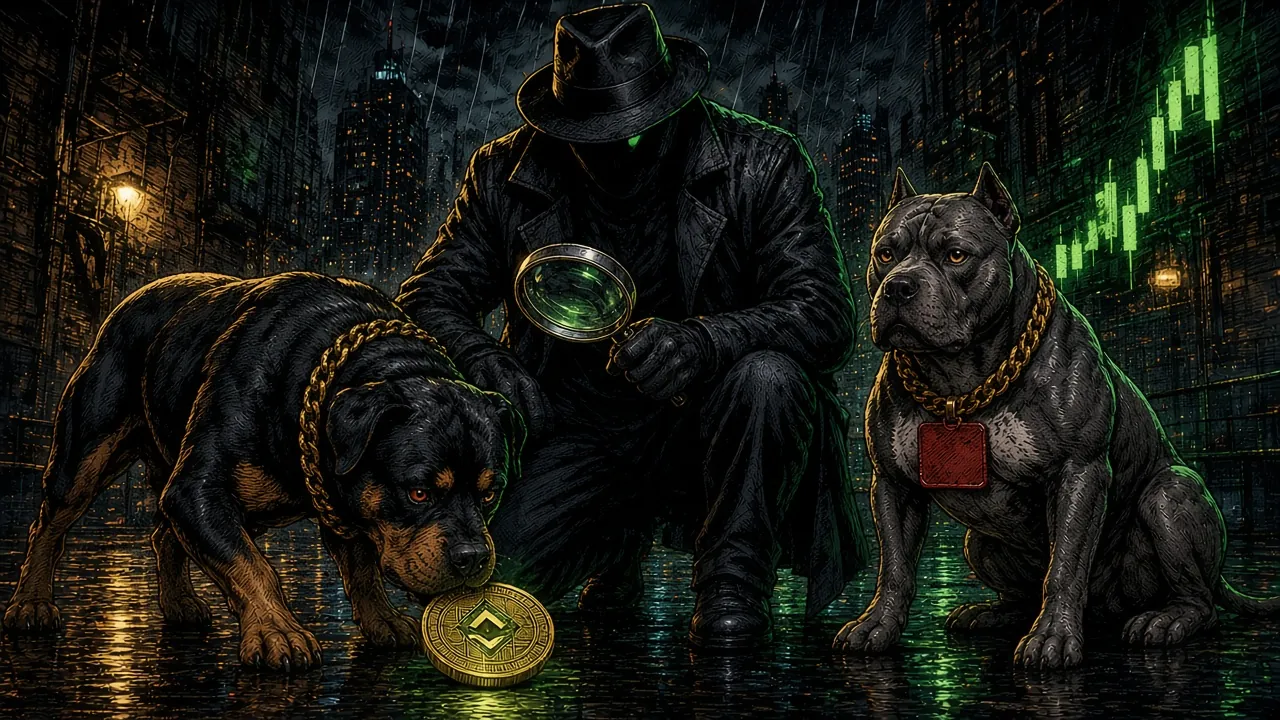
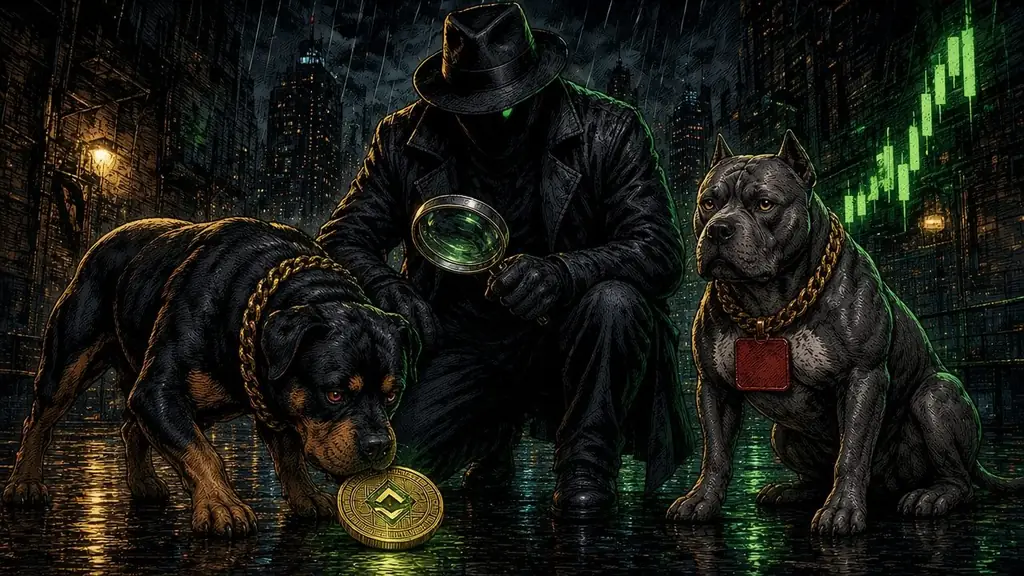
SEO: smaller guide images, remove unused old images, JSON-LD structured data

diff --git a/scorecard.html b/scorecard.html
@@ -32,7 +32,7 @@ footer{padding:36px 0;border-top:1px solid var(--line);text-align:center}.nfa{co
 @media(max-width:820px){.hero{grid-template-columns:1fr}.hero h1{font-size:3rem}.grid,.dbgrid{grid-template-columns:1fr}nav a{font-size:.8rem}section{padding:44px 0}}
 /* mobile-fix */html,body{max-width:100%}img,video,svg{max-width:100%;height:auto}.grid>*,.dbgrid>*,.hero>*{min-width:0}code,pre,.addr,.report,td,li,p,a,h1,h2,h3,div{overflow-wrap:anywhere;word-break:break-word}pre{white-space:pre-wrap}
 @media(max-width:640px){.wrap{padding:0 14px}.hero h1{font-size:2.3rem}nav{flex-wrap:wrap}.sniff input{min-width:0}table.facts,table.facts tbody,table.facts tr,table.facts td{display:block;width:100%}table.facts tr:first-child{display:none}table.facts tr{border:1px solid var(--line);border-radius:10px;margin:0 0 12px;padding:6px 0}table.facts td{border:0;padding:4px 12px}table.facts td[data-label]::before{content:attr(data-label);display:block;font-size:.72rem;text-transform:uppercase;letter-spacing:.05em;color:var(--gold);font-weight:800}}
-h1.pg{font-size:2.2rem;color:var(--gold)}h1.pg span{color:var(--g)}</style></head><body><nav><div class="wrap"><b><a href="index.html" style="color:var(--gold)">🐕 DANXX DOGS</a></b><a href="index.html#db">Scam DB</a><a href="index.html#sniff">Sniff</a><a href="index.html#nodm">No DMs</a><a href="pitch-patrol.html">Pitch Patrol</a><a href="scorecard.html">Scorecard</a><a href="shillwave.html">Shill Wave</a><a href="ledger.html">Ledger</a><a href="guides/index.html">Guides</a></div></nav><div class="wrap"><section><p class="pill y">SNIFF SCORECARD</p><h1 class="pg">EVERY FLAG. <span>EVERY OUTCOME.</span></h1>
+h1.pg{font-size:2.2rem;color:var(--gold)}h1.pg span{color:var(--g)}</style><script type="application/ld+json">{"@context": "https://schema.org", "@graph": [{"@type": "WebPage", "@id": "https://danxxdogs.com/scorecard.html#webpage", "url": "https://danxxdogs.com/scorecard.html", "name": "Sniff Scorecard | Danxx Dogs", "description": "Sniff Scorecard: every Danxx Dogs flag on Robinhood Chain with the date flagged, its current status and the 7-day outcome to check our record. NFA/DYOR.", "isPartOf": {"@id": "https://danxxdogs.com/#website"}, "publisher": {"@id": "https://danxxdogs.com/#org"}}, {"@type": "BreadcrumbList", "itemListElement": [{"@type": "ListItem", "position": 1, "name": "Home", "item": "https://danxxdogs.com/"}, {"@type": "ListItem", "position": 2, "name": "Sniff Scorecard", "item": "https://danxxdogs.com/scorecard.html"}]}]}</script></head><body><nav><div class="wrap"><b><a href="index.html" style="color:var(--gold)">🐕 DANXX DOGS</a></b><a href="index.html#db">Scam DB</a><a href="index.html#sniff">Sniff</a><a href="index.html#nodm">No DMs</a><a href="pitch-patrol.html">Pitch Patrol</a><a href="scorecard.html">Scorecard</a><a href="shillwave.html">Shill Wave</a><a href="ledger.html">Ledger</a><a href="guides/index.html">Guides</a></div></nav><div class="wrap"><section><p class="pill y">SNIFF SCORECARD</p><h1 class="pg">EVERY FLAG. <span>EVERY OUTCOME.</span></h1>
 <p>We publish every entry we have flagged, then check each one 7 days later and write down what happened, misses included. If a flag turns out wrong, it stays here, marked as a miss.</p>
 <p class="muted">34 flags logged so far. The first one was flagged Oct 22, 2026, so no 7-day check is due before Oct 29. Every outcome is <b>pending</b> until then. "Status now" is today's status, not the 7-day result. Updated 2026-10-26 7:55 PM CT.</p>
 <div style="overflow-x:auto"><table class="facts"><tr><td><b>ID</b></td><td><b>Flag</b></td><td><b>Type</b></td><td><b>Flagged</b></td><td><b>Status now</b></td><td><b>7-day outcome</b></td></tr><tr><td><b>DD-001</b></td><td>Fake Danxx Dogs (DANXXDOGS) on flap.sh</td><td>copycat</td><td>2026-10-22</td><td>active</td><td>pending <span class="muted">(due 2026-10-29)</span></td></tr><tr><td><b>DD-002</b></td><td>Bot deployer 0x498b1bee…d384</td><td>serial deployer</td><td>2026-10-22</td><td>watching</td><td>pending <span class="muted">(due 2026-10-29)</span></td></tr><tr><td><b>DD-003</b></td><td>Artificial Inu (AI) whale exit</td><td>whale dump</td><td>2026-10-23</td><td>resolved</td><td>pending <span class="muted">(due 2026-10-30)</span></td></tr><tr><td><b>DD-004</b></td><td>pump.fun copycat KIMCHI</td><td>copycat</td><td>2026-10-22</td><td>resolved</td><td>pending <span class="muted">(due 2026-10-29)</span></td></tr><tr><td><b>DD-005</b></td><td>Bumper Balls (BALLS)</td><td>sniff result</td><td>2026-10-23</td><td>watching</td><td>pending <span class="muted">(due 2026-10-30)</span></td></tr><tr><td><b>DD-006</b></td><td>Fake Torch (TORCH)</td><td>copycat</td><td>2026-10-22</td><td>active</td><td>pending <span class="muted">(due 2026-10-29)</span></td></tr><tr><td><b>DD-007</b></td><td>Torch (TORCH), official</td><td>sniff result</td><td>2026-10-23</td><td>resolved</td><td>pending <span class="muted">(due 2026-10-30)</span></td></tr><tr><td><b>DD-008</b></td><td>Hood Hood (HOOD)</td><td>copycat</td><td>2026-10-23</td><td>watching</td><td>pending <span class="muted">(due 2026-10-30)</span></td></tr><tr><td><b>DD-009</b></td><td>Fake-liquidity TRUMP &#x27;AMERIICANTRUMP&#x27;</td><td>rug</td><td>2026-10-23</td><td>active</td><td>pending <span class="muted">(due 2026-10-30)</span></td></tr><tr><td><b>DD-010</b></td><td>PREST</td><td>suspicious launch</td><td>2026-10-23</td><td>watching</td><td>pending <span class="muted">(due 2026-10-30)</span></td></tr><tr><td><b>DD-011</b></td><td>baldcat</td><td>rug</td><td>2026-10-23</td><td>confirmed onchain</td><td>pending <span class="muted">(due 2026-10-30)</span></td></tr><tr><td><b>DD-012</b></td><td>You Missed Bitches (YMB) #1</td><td>suspicious launch</td><td>2026-10-23</td><td>watching</td><td>pending <span class="muted">(due 2026-10-30)</span></td></tr><tr><td><b>DD-013</b></td><td>You Missed Bitches (YMB) #2</td><td>suspicious launch</td><td>2026-10-23</td><td>watching</td><td>pending <span class="muted">(due 2026-10-30)</span></td></tr><tr><td><b>DD-014</b></td><td>Service seller in the Dip Club (name withheld)</td><td>service seller</td><td>2026-10-23</td><td>watching</td><td>pending <span class="muted">(due 2026-10-30)</span></td></tr><tr><td><b>DD-015</b></td><td>Service seller in the Dip Club (name withheld)</td><td>service seller</td><td>2026-10-23</td><td>watching</td><td>pending <span class="muted">(due 2026-10-30)</span></td></tr><tr><td><b>DD-016</b></td><td>Service seller in the Dip Club (name withheld)</td><td>service seller</td><td>2026-10-23</td><td>watching</td><td>pending <span class="muted">(due 2026-10-30)</span></td></tr><tr><td><b>DD-017</b></td><td>Service seller in the Dip Club (name withheld)</td><td>service seller</td><td>2026-10-23</td><td>watching</td><td>pending <span class="muted">(due 2026-10-30)</span></td></tr><tr><td><b>DD-018</b></td><td>Service seller in the Dip Club (name withheld)</td><td>service seller</td><td>2026-10-23</td><td>watching</td><td>pending <span class="muted">(due 2026-10-30)</span></td></tr><tr><td><b>DD-019</b></td><td>Service seller in the Dip Club (name withheld)</td><td>service seller</td><td>2026-10-23</td><td>watching</td><td>pending <span class="muted">(due 2026-10-30)</span></td></tr><tr><td><b>DD-020</b></td><td>Service seller in the Dip Club (name withheld)</td><td>service seller</td><td>2026-10-23</td><td>watching</td><td>pending <span class="muted">(due 2026-10-30)</span></td></tr><tr><td><b>DD-021</b></td><td>Service seller in the Dip Club (name withheld)</td><td>service seller</td><td>2026-10-23</td><td>watching</td><td>pending <span class="muted">(due 2026-10-30)</span></td></tr><tr><td><b>DD-022</b></td><td>GIWAMAPS (GIWAS)</td><td>sniff result</td><td>2026-10-24</td><td>watching</td><td>pending <span class="muted">(due 2026-10-31)</span></td></tr><tr><td><b>DD-023</b></td><td>Giwamaps (GIWAMAPS), older token</td><td>sniff result</td><td>2026-10-24</td><td>watching</td><td>pending <span class="muted">(due 2026-10-31)</span></td></tr><tr><td><b>DD-024</b></td><td>Devin (DEVIN)</td><td>rug</td><td>2026-10-24</td><td>confirmed onchain</td><td>pending <span class="muted">(due 2026-10-31)</span></td></tr><tr><td><b>DD-025</b></td><td>Fake Danxx Dogs (DANXX) #2 on flap.sh</td><td>copycat</td><td>2026-10-24</td><td>flagged</td><td>pending <span class="muted">(due 2026-10-31)</span></td></tr><tr><td><b>DD-026</b></td><td>Fake Danxx Dogs (DANXXDOGS) on Solana / Meteora</td><td>copycat</td><td>2026-10-24</td><td>confirmed onchain</td><td>pending <span class="muted">(due 2026-10-31)</span></td></tr><tr><td><b>DD-027</b></td><td>Fake Danxx Dogs (DANXXDOGS) #3 on Robinhood Chain</td><td>copycat</td><td>2026-10-24</td><td>flagged</td><td>pending <span class="muted">(due 2026-10-31)</span></td></tr><tr><td><b>DD-028</b></td><td>Fucktober (FUCK)</td><td>rug</td><td>2026-10-25</td><td>confirmed onchain</td><td>pending <span class="muted">(due 2026-11-01)</span></td></tr><tr><td><b>DD-029</b></td><td>Million Dollar Homepage (1M): coordinated dump</td><td>suspicious launch</td><td>2026-10-26</td><td>flagged</td><td>pending <span class="muted">(due 2026-11-02)</span></td></tr><tr><td><b>DD-030</b></td><td>&quot;Anthropic&quot; (ANT) bundle dump</td><td>suspicious launch</td><td>2026-10-26</td><td>flagged</td><td>pending <span class="muted">(due 2026-11-02)</span></td></tr><tr><td><b>DD-031</b></td><td>Agent Wormhole (WORM) Watchdog: grade C</td><td>sniff result</td><td>2026-10-26</td><td>watching</td><td>pending <span class="muted">(due 2026-11-02)</span></td></tr><tr><td><b>DD-032</b></td><td>Giga Tenev (GIGATENEV) Watchdog Report #2: grade C+, flagged</td><td>suspicious launch</td><td>2026-10-26</td><td>flagged</td><td>pending <span class="muted">(due 2026-11-02)</span></td></tr><tr><td><b>DD-033</b></td><td>Copycat &quot;Torch&quot; (TRCH)</td><td>rug</td><td>2026-10-26</td><td>confirmed onchain</td><td>pending <span class="muted">(due 2026-11-02)</span></td></tr><tr><td><b>DD-034</b></td><td>Official Rump Coin (RUMP): deployer pulled liquidity</td><td>rug</td><td>2026-10-26</td><td>confirmed onchain</td><td>pending <span class="muted">(due 2026-11-02)</span></td></tr></table></div>

diff --git a/index.html b/index.html
@@ -35,7 +35,7 @@ footer{padding:36px 0;border-top:1px solid var(--line);text-align:center}.nfa{co
 /* mobile-fix */html,body{max-width:100%}img,video,svg{max-width:100%;height:auto}.grid>*,.dbgrid>*,.hero>*{min-width:0}code,pre,.addr,.report,td,li,p,a,h1,h2,h3,div{overflow-wrap:anywhere;word-break:break-word}pre{white-space:pre-wrap}
 @media(max-width:640px){.wrap{padding:0 14px}.hero h1{font-size:2.3rem}nav{flex-wrap:wrap}.sniff input{min-width:0}table.facts,table.facts tbody,table.facts tr,table.facts td{display:block;width:100%}table.facts tr:first-child{display:none}table.facts tr{border:1px solid var(--line);border-radius:10px;margin:0 0 12px;padding:6px 0}table.facts td{border:0;padding:4px 12px}table.facts td[data-label]::before{content:attr(data-label);display:block;font-size:.72rem;text-transform:uppercase;letter-spacing:.05em;color:var(--gold);font-weight:800}}
 /* db-collapse */html.js #db .dbgrid:not(.show-all) .db-more{display:none}.dbmore-wrap{text-align:center;margin:18px 0 0}.dbmore{padding:14px 26px;border:1px solid var(--g);border-radius:10px;background:transparent;color:var(--g);font-weight:900;font-size:1rem;cursor:pointer;max-width:100%}.dbmore:hover,.dbmore:focus-visible{background:var(--g);color:#0e1210;outline:2px solid var(--gold)}html:not(.js) .dbmore-wrap{display:none}
-</style></head><body>
+</style><script type="application/ld+json">{"@context": "https://schema.org", "@graph": [{"@type": "WebSite", "@id": "https://danxxdogs.com/#website", "name": "Danxx Dogs", "url": "https://danxxdogs.com/", "description": "Danxx Dogs is an open rug watchdog for Robinhood Chain: a public scam DB, on-chain rug alerts, a token sniff checklist and repeat-deployer tracking. NFA/DYOR.", "publisher": {"@id": "https://danxxdogs.com/#org"}}, {"@type": "Organization", "@id": "https://danxxdogs.com/#org", "name": "Danxx Dogs", "url": "https://danxxdogs.com/", "logo": "https://danxxdogs.com/assets/danxxdogs_icon.jpg", "sameAs": ["https://x.com/DanxxDogs"]}]}</script></head><body>
 <nav><div class="wrap"><b>🐕 DANXX DOGS</b><a href="#crew">Crew</a><a href="#sniff">Sniff</a><a href="#db">Scam DB</a><a href="#alerts">Alerts</a><a href="#reports">Reports</a><a href="#token">Token</a><a href="#nodm">No DMs</a><a href="pitch-patrol.html">Pitch Patrol</a><a href="scorecard.html">Scorecard</a><a href="shillwave.html">Shill Wave</a><a href="ledger.html">Ledger</a><a href="guides/index.html">Guides</a></div></nav>
 <div class="wrap">
 <div class="searchbox"><form class="ddsearch" role="search" action="#db"><label for="ddq1">🔎 Was this coin reported? Search our scam DB</label><input id="ddq1" name="q" type="search" autocomplete="off" spellcheck="false" placeholder="Paste a contract address, $TICKER or name" aria-describedby="ddh1"><button type="submit">Search</button></form><p id="ddh1" class="muted" style="margin:0;font-size:.85rem">Searches the entries on this page. A match or a miss is never a green light. NFA/DYOR.</p><div class="sr-results" aria-live="polite"></div></div>
@@ -62,7 +62,7 @@ Verdict: <span class="flag">HIGH RISK · score 100</span><br>
 <span class="ok">Checks:</span> copycat names · LP pulls · deployer bags · verified code · holders · liquidity · Danxx Dogs scam DB<br><br>
 A low score is never a guarantee. NFA/DYOR.</div></section>
 
-<section id="db"><h2>PUBLIC SCAM <span>DATABASE</span></h2><p class="muted">Tokens we've called out, with on-chain evidence and links to our posts. Facts only. Last updated 2026-10-27 6:47 PM CT. NFA/DYOR.</p>
+<section id="db"><h2>PUBLIC SCAM <span>DATABASE</span></h2><p class="muted">Tokens we've called out, with on-chain evidence and links to our posts. Facts only. Last updated 2026-10-27 7:40 PM CT. NFA/DYOR.</p>
 <div class="searchbox"><form class="ddsearch" role="search" action="#db"><label for="ddq2">🔎 Was this coin reported? Search our scam DB</label><input id="ddq2" name="q" type="search" autocomplete="off" spellcheck="false" placeholder="Paste a contract address, $TICKER or name" aria-describedby="ddh2"><button type="submit">Search</button></form><p id="ddh2" class="muted" style="margin:0;font-size:.85rem">Searches the entries on this page. A match or a miss is never a green light. NFA/DYOR.</p><div class="sr-results" aria-live="polite"></div></div>
 <div class="dbgrid" id="dbgrid"><article class="db risk-high" id="dd-034"><header><span class="id">DD-034</span><span class="tag">rug</span><span class="tag st">confirmed onchain</span></header>
 <h3>Official Rump Coin (RUMP): deployer pulled liquidity</h3><p class="muted">Robinhood Chain · risk: high</p><div class="addr"><small>Contracts</small><code>0x7eD7bEB3265ff628F834348beb4c0159f7619C15</code></div><div class="addr"><small>Wallets</small><code>deployer 0x2a72a48d77238120f86a93b9d55b5b2ea406cb21</code><code>pool 0x672687CA46d3719c7d542EA4a795fd3e4C65205c</code></div>

diff --git a/pitch-patrol.html b/pitch-patrol.html
@@ -32,7 +32,7 @@ footer{padding:36px 0;border-top:1px solid var(--line);text-align:center}.nfa{co
 @media(max-width:820px){.hero{grid-template-columns:1fr}.hero h1{font-size:3rem}.grid,.dbgrid{grid-template-columns:1fr}nav a{font-size:.8rem}section{padding:44px 0}}
 /* mobile-fix */html,body{max-width:100%}img,video,svg{max-width:100%;height:auto}.grid>*,.dbgrid>*,.hero>*{min-width:0}code,pre,.addr,.report,td,li,p,a,h1,h2,h3,div{overflow-wrap:anywhere;word-break:break-word}pre{white-space:pre-wrap}
 @media(max-width:640px){.wrap{padding:0 14px}.hero h1{font-size:2.3rem}nav{flex-wrap:wrap}.sniff input{min-width:0}table.facts,table.facts tbody,table.facts tr,table.facts td{display:block;width:100%}table.facts tr:first-child{display:none}table.facts tr{border:1px solid var(--line);border-radius:10px;margin:0 0 12px;padding:6px 0}table.facts td{border:0;padding:4px 12px}table.facts td[data-label]::before{content:attr(data-label);display:block;font-size:.72rem;text-transform:uppercase;letter-spacing:.05em;color:var(--gold);font-weight:800}}
-h1.pg{font-size:2.2rem;color:var(--gold)}h1.pg span{color:var(--g)}</style></head><body><nav><div class="wrap"><b><a href="index.html" style="color:var(--gold)">🐕 DANXX DOGS</a></b><a href="index.html#db">Scam DB</a><a href="index.html#sniff">Sniff</a><a href="index.html#nodm">No DMs</a><a href="pitch-patrol.html">Pitch Patrol</a><a href="scorecard.html">Scorecard</a><a href="shillwave.html">Shill Wave</a><a href="ledger.html">Ledger</a><a href="guides/index.html">Guides</a></div></nav><div class="wrap"><section><p class="pill r">PITCH PATROL</p><h1 class="pg">CASE <span>#1</span>: THE WARM-UP PITCH</h1>
+h1.pg{font-size:2.2rem;color:var(--gold)}h1.pg span{color:var(--g)}</style><script type="application/ld+json">{"@context": "https://schema.org", "@graph": [{"@type": "WebPage", "@id": "https://danxxdogs.com/pitch-patrol.html#webpage", "url": "https://danxxdogs.com/pitch-patrol.html", "name": "Pitch Patrol | Danxx Dogs", "description": "Pitch Patrol: how warm-up growth pitches and DM requests show up in crypto Telegram groups, with a red-flags checklist and our public-only rules. NFA/DYOR.", "isPartOf": {"@id": "https://danxxdogs.com/#website"}, "publisher": {"@id": "https://danxxdogs.com/#org"}}, {"@type": "BreadcrumbList", "itemListElement": [{"@type": "ListItem", "position": 1, "name": "Home", "item": "https://danxxdogs.com/"}, {"@type": "ListItem", "position": 2, "name": "Pitch Patrol", "item": "https://danxxdogs.com/pitch-patrol.html"}]}]}</script></head><body><nav><div class="wrap"><b><a href="index.html" style="color:var(--gold)">🐕 DANXX DOGS</a></b><a href="index.html#db">Scam DB</a><a href="index.html#sniff">Sniff</a><a href="index.html#nodm">No DMs</a><a href="pitch-patrol.html">Pitch Patrol</a><a href="scorecard.html">Scorecard</a><a href="shillwave.html">Shill Wave</a><a href="ledger.html">Ledger</a><a href="guides/index.html">Guides</a></div></nav><div class="wrap"><section><p class="pill r">PITCH PATROL</p><h1 class="pg">CASE <span>#1</span>: THE WARM-UP PITCH</h1>
 <p class="muted">Anonymized on purpose. No names or handles. This is a pattern to learn, not a call-out of a person. Dates are Oct 24–25, 2026 (CT).</p>
 <p>Not every scam is a token. Some come as "growth help" offers that start in public and try to move to private. Here is how one played out in our Telegram group, the Dip Club, step by step.</p>
 <h3>Timeline</h3><table class="facts"><tr><td><b>Day 1, about 12:19 PM CT</b></td><td>Joins the Dip Club. Posts generic praise (&quot;Nice to be in this amazing community&quot;) and asks who runs the project.</td></tr><tr><td><b>Day 1, afternoon</b></td><td>Keeps asking friendly, open-ended questions: long-term or quick profit? What&#x27;s the main goal? No questions about tokens or scam checks.</td></tr><tr><td><b>Day 1, evening</b></td><td>Says they have &quot;a few ideas&quot; to bring in more holders. The team answers in public: ideas are welcome right here in the group; we don&#x27;t do private DMs or paid services. They then ask for our X link.</td></tr><tr><td><b>Day 2, about 2:15 PM CT</b></td><td>Posts the same &quot;ideas to bring in more holders&quot; pitch again, nearly word for word.</td></tr><tr><td><b>Day 2, about 2:22 PM CT</b></td><td>The team declines again, in the group, in public.</td></tr><tr><td><b>Day 2, about 2:27 PM CT</b></td><td>Public sniff call-out: the dogs point out the pattern (same copy-paste pitch twice, after a run of warm-up questions).</td></tr><tr><td><b>Day 2, about 2:30 PM CT</b></td><td>Removed from the group with the admin bot&#x27;s /ban, on the owner&#x27;s call.</td></tr></table></section>

diff --git a/guides/robinhood-chain-launchpad-red-flags.html b/guides/robinhood-chain-launchpad-red-flags.html
@@ -1,5 +1,5 @@
 <!DOCTYPE html><html lang="en"><head><meta charset="utf-8"><meta name="viewport" content="width=device-width,initial-scale=1">
-<title>Common Robinhood Chain Launchpad Red Flags (2026 Checklist) | Danxx Dogs</title><meta name="description" content="The red flags we see most on Robinhood Chain launchpads: repeat deployers, LP pulls, bundled snipes, paid promo pitches and fake claim drainers. Real examples from our Scam DB. NFA/DYOR."><link rel="canonical" href="https://danxxdogs.com/guides/robinhood-chain-launchpad-red-flags.html"><link rel="icon" href="../favicon.ico" sizes="any"><link rel="icon" type="image/png" sizes="32x32" href="../assets/favicon-32.png"><link rel="apple-touch-icon" href="../assets/apple-touch-icon.png"><meta property="og:type" content="article"><meta property="og:site_name" content="Danxx Dogs"><meta property="og:url" content="https://danxxdogs.com/guides/robinhood-chain-launchpad-red-flags.html"><meta property="og:title" content="Common Robinhood Chain Launchpad Red Flags (2026 Checklist) | Danxx Dogs"><meta property="og:description" content="The red flags we see most on Robinhood Chain launchpads: repeat deployers, LP pulls, bundled snipes, paid promo pitches and fake claim drainers. Real examples from our Scam DB. NFA/DYOR."><meta property="og:image" content="https://danxxdogs.com/guides/img/launchpad-red-flags-hero.jpg"><meta property="og:image:width" content="1280"><meta property="og:image:height" content="720"><meta property="og:image:alt" content="The Agent points at a launchpad rocket covered in red flags while Rug barks and Dip watches"><meta name="twitter:card" content="summary_large_image"><meta name="twitter:site" content="@DanxxDogs"><meta name="twitter:title" content="Common Robinhood Chain Launchpad Red Flags (2026 Checklist) | Danxx Dogs"><meta name="twitter:description" content="The red flags we see most on Robinhood Chain launchpads: repeat deployers, LP pulls, bundled snipes, paid promo pitches and fake claim drainers. Real examples from our Scam DB. NFA/DYOR."><meta name="twitter:image" content="https://danxxdogs.com/guides/img/launchpad-red-flags-hero.jpg"><meta name="twitter:image:alt" content="The Agent points at a launchpad rocket covered in red flags while Rug barks and Dip watches">
+<title>Common Robinhood Chain Launchpad Red Flags (2026 Checklist) | Danxx Dogs</title><meta name="description" content="The red flags we see most on Robinhood Chain launchpads: repeat deployers, LP pulls, bundled snipes, paid promo pitches and fake claim drainers. Real examples from our Scam DB. NFA/DYOR."><link rel="canonical" href="https://danxxdogs.com/guides/robinhood-chain-launchpad-red-flags.html"><link rel="icon" href="../favicon.ico" sizes="any"><link rel="icon" type="image/png" sizes="32x32" href="../assets/favicon-32.png"><link rel="apple-touch-icon" href="../assets/apple-touch-icon.png"><meta property="og:type" content="article"><meta property="og:site_name" content="Danxx Dogs"><meta property="og:url" content="https://danxxdogs.com/guides/robinhood-chain-launchpad-red-flags.html"><meta property="og:title" content="Common Robinhood Chain Launchpad Red Flags (2026 Checklist) | Danxx Dogs"><meta property="og:description" content="The red flags we see most on Robinhood Chain launchpads: repeat deployers, LP pulls, bundled snipes, paid promo pitches and fake claim drainers. Real examples from our Scam DB. NFA/DYOR."><meta property="og:image" content="https://danxxdogs.com/guides/img/launchpad-red-flags-hero.jpg"><meta property="og:image:width" content="1024"><meta property="og:image:height" content="576"><meta property="og:image:alt" content="The Agent points at a launchpad rocket covered in red flags while Rug barks and Dip watches"><meta name="twitter:card" content="summary_large_image"><meta name="twitter:site" content="@DanxxDogs"><meta name="twitter:title" content="Common Robinhood Chain Launchpad Red Flags (2026 Checklist) | Danxx Dogs"><meta name="twitter:description" content="The red flags we see most on Robinhood Chain launchpads: repeat deployers, LP pulls, bundled snipes, paid promo pitches and fake claim drainers. Real examples from our Scam DB. NFA/DYOR."><meta name="twitter:image" content="https://danxxdogs.com/guides/img/launchpad-red-flags-hero.jpg"><meta name="twitter:image:alt" content="The Agent points at a launchpad rocket covered in red flags while Rug barks and Dip watches">
 
 
 

diff --git a/guides/how-to-check-a-robinhood-chain-token.html b/guides/how-to-check-a-robinhood-chain-token.html
@@ -1,5 +1,5 @@
 <!DOCTYPE html><html lang="en"><head><meta charset="utf-8"><meta name="viewport" content="width=device-width,initial-scale=1">
-<title>How to Check a Robinhood Chain Token Before You Ape | Danxx Dogs</title><meta name="description" content="Step-by-step checklist to check a Robinhood Chain token before you buy: match the CA, deployer history on Blockscout, who controls the LP, holder bundles, sell checks and socials. Free tools only. NFA/DYOR."><link rel="canonical" href="https://danxxdogs.com/guides/how-to-check-a-robinhood-chain-token.html"><link rel="icon" href="../favicon.ico" sizes="any"><link rel="icon" type="image/png" sizes="32x32" href="../assets/favicon-32.png"><link rel="apple-touch-icon" href="../assets/apple-touch-icon.png"><meta property="og:type" content="article"><meta property="og:site_name" content="Danxx Dogs"><meta property="og:url" content="https://danxxdogs.com/guides/how-to-check-a-robinhood-chain-token.html"><meta property="og:title" content="How to Check a Robinhood Chain Token Before You Ape | Danxx Dogs"><meta property="og:description" content="Step-by-step checklist to check a Robinhood Chain token before you buy: match the CA, deployer history on Blockscout, who controls the LP, holder bundles, sell checks and socials. Free tools only. NFA/DYOR."><meta property="og:image" content="https://danxxdogs.com/guides/img/check-token-hero.jpg"><meta property="og:image:width" content="1280"><meta property="og:image:height" content="720"><meta property="og:image:alt" content="The Agent (trench coat), Rug the rottweiler and Dip checking a token"><meta name="twitter:card" content="summary_large_image"><meta name="twitter:site" content="@DanxxDogs"><meta name="twitter:title" content="How to Check a Robinhood Chain Token Before You Ape | Danxx Dogs"><meta name="twitter:description" content="Step-by-step checklist to check a Robinhood Chain token before you buy: match the CA, deployer history on Blockscout, who controls the LP, holder bundles, sell checks and socials. Free tools only. NFA/DYOR."><meta name="twitter:image" content="https://danxxdogs.com/guides/img/check-token-hero.jpg"><meta name="twitter:image:alt" content="The Agent (trench coat), Rug the rottweiler and Dip checking a token">
+<title>How to Check a Robinhood Chain Token Before You Ape | Danxx Dogs</title><meta name="description" content="Step-by-step checklist to check a Robinhood Chain token before you buy: match the CA, deployer history on Blockscout, who controls the LP, holder bundles, sell checks and socials. Free tools only. NFA/DYOR."><link rel="canonical" href="https://danxxdogs.com/guides/how-to-check-a-robinhood-chain-token.html"><link rel="icon" href="../favicon.ico" sizes="any"><link rel="icon" type="image/png" sizes="32x32" href="../assets/favicon-32.png"><link rel="apple-touch-icon" href="../assets/apple-touch-icon.png"><meta property="og:type" content="article"><meta property="og:site_name" content="Danxx Dogs"><meta property="og:url" content="https://danxxdogs.com/guides/how-to-check-a-robinhood-chain-token.html"><meta property="og:title" content="How to Check a Robinhood Chain Token Before You Ape | Danxx Dogs"><meta property="og:description" content="Step-by-step checklist to check a Robinhood Chain token before you buy: match the CA, deployer history on Blockscout, who controls the LP, holder bundles, sell checks and socials. Free tools only. NFA/DYOR."><meta property="og:image" content="https://danxxdogs.com/guides/img/check-token-hero.jpg"><meta property="og:image:width" content="1024"><meta property="og:image:height" content="576"><meta property="og:image:alt" content="The Agent (trench coat), Rug the rottweiler and Dip checking a token"><meta name="twitter:card" content="summary_large_image"><meta name="twitter:site" content="@DanxxDogs"><meta name="twitter:title" content="How to Check a Robinhood Chain Token Before You Ape | Danxx Dogs"><meta name="twitter:description" content="Step-by-step checklist to check a Robinhood Chain token before you buy: match the CA, deployer history on Blockscout, who controls the LP, holder bundles, sell checks and socials. Free tools only. NFA/DYOR."><meta name="twitter:image" content="https://danxxdogs.com/guides/img/check-token-hero.jpg"><meta name="twitter:image:alt" content="The Agent (trench coat), Rug the rottweiler and Dip checking a token">
 
 
 

diff --git a/guides/real-vs-fake-ca-how-to-spot-a-copycat-token.html b/guides/real-vs-fake-ca-how-to-spot-a-copycat-token.html
@@ -1,5 +1,5 @@
 <!DOCTYPE html><html lang="en"><head><meta charset="utf-8"><meta name="viewport" content="width=device-width,initial-scale=1">
-<title>Real vs Fake CA: How to Spot a Copycat Token | Danxx Dogs</title><meta name="description" content="How to tell a real contract address from a fake copycat token, with real Robinhood Chain examples: the copycat Torch (TRCH) rug, the fake TORCH airdrop and fake claim drainers. NFA/DYOR."><link rel="canonical" href="https://danxxdogs.com/guides/real-vs-fake-ca-how-to-spot-a-copycat-token.html"><link rel="icon" href="../favicon.ico" sizes="any"><link rel="icon" type="image/png" sizes="32x32" href="../assets/favicon-32.png"><link rel="apple-touch-icon" href="../assets/apple-touch-icon.png"><meta property="og:type" content="article"><meta property="og:site_name" content="Danxx Dogs"><meta property="og:url" content="https://danxxdogs.com/guides/real-vs-fake-ca-how-to-spot-a-copycat-token.html"><meta property="og:title" content="Real vs Fake CA: How to Spot a Copycat Token | Danxx Dogs"><meta property="og:description" content="How to tell a real contract address from a fake copycat token, with real Robinhood Chain examples: the copycat Torch (TRCH) rug, the fake TORCH airdrop and fake claim drainers. NFA/DYOR."><meta property="og:image" content="https://danxxdogs.com/guides/img/real-vs-fake-ca-hero.jpg"><meta property="og:image:width" content="1280"><meta property="og:image:height" content="720"><meta property="og:image:alt" content="The Agent compares a real glowing coin with a cracked fake one while Rug and Dip watch"><meta name="twitter:card" content="summary_large_image"><meta name="twitter:site" content="@DanxxDogs"><meta name="twitter:title" content="Real vs Fake CA: How to Spot a Copycat Token | Danxx Dogs"><meta name="twitter:description" content="How to tell a real contract address from a fake copycat token, with real Robinhood Chain examples: the copycat Torch (TRCH) rug, the fake TORCH airdrop and fake claim drainers. NFA/DYOR."><meta name="twitter:image" content="https://danxxdogs.com/guides/img/real-vs-fake-ca-hero.jpg"><meta name="twitter:image:alt" content="The Agent compares a real glowing coin with a cracked fake one while Rug and Dip watch">
+<title>Real vs Fake CA: How to Spot a Copycat Token | Danxx Dogs</title><meta name="description" content="How to tell a real contract address from a fake copycat token, with real Robinhood Chain examples: the copycat Torch (TRCH) rug, the fake TORCH airdrop and fake claim drainers. NFA/DYOR."><link rel="canonical" href="https://danxxdogs.com/guides/real-vs-fake-ca-how-to-spot-a-copycat-token.html"><link rel="icon" href="../favicon.ico" sizes="any"><link rel="icon" type="image/png" sizes="32x32" href="../assets/favicon-32.png"><link rel="apple-touch-icon" href="../assets/apple-touch-icon.png"><meta property="og:type" content="article"><meta property="og:site_name" content="Danxx Dogs"><meta property="og:url" content="https://danxxdogs.com/guides/real-vs-fake-ca-how-to-spot-a-copycat-token.html"><meta property="og:title" content="Real vs Fake CA: How to Spot a Copycat Token | Danxx Dogs"><meta property="og:description" content="How to tell a real contract address from a fake copycat token, with real Robinhood Chain examples: the copycat Torch (TRCH) rug, the fake TORCH airdrop and fake claim drainers. NFA/DYOR."><meta property="og:image" content="https://danxxdogs.com/guides/img/real-vs-fake-ca-hero.jpg"><meta property="og:image:width" content="1024"><meta property="og:image:height" content="576"><meta property="og:image:alt" content="The Agent compares a real glowing coin with a cracked fake one while Rug and Dip watch"><meta name="twitter:card" content="summary_large_image"><meta name="twitter:site" content="@DanxxDogs"><meta name="twitter:title" content="Real vs Fake CA: How to Spot a Copycat Token | Danxx Dogs"><meta name="twitter:description" content="How to tell a real contract address from a fake copycat token, with real Robinhood Chain examples: the copycat Torch (TRCH) rug, the fake TORCH airdrop and fake claim drainers. NFA/DYOR."><meta name="twitter:image" content="https://danxxdogs.com/guides/img/real-vs-fake-ca-hero.jpg"><meta name="twitter:image:alt" content="The Agent compares a real glowing coin with a cracked fake one while Rug and Dip watch">
 
 
 

diff --git a/shillwave.html b/shillwave.html
@@ -32,7 +32,7 @@ footer{padding:36px 0;border-top:1px solid var(--line);text-align:center}.nfa{co
 @media(max-width:820px){.hero{grid-template-columns:1fr}.hero h1{font-size:3rem}.grid,.dbgrid{grid-template-columns:1fr}nav a{font-size:.8rem}section{padding:44px 0}}
 /* mobile-fix */html,body{max-width:100%}img,video,svg{max-width:100%;height:auto}.grid>*,.dbgrid>*,.hero>*{min-width:0}code,pre,.addr,.report,td,li,p,a,h1,h2,h3,div{overflow-wrap:anywhere;word-break:break-word}pre{white-space:pre-wrap}
 @media(max-width:640px){.wrap{padding:0 14px}.hero h1{font-size:2.3rem}nav{flex-wrap:wrap}.sniff input{min-width:0}table.facts,table.facts tbody,table.facts tr,table.facts td{display:block;width:100%}table.facts tr:first-child{display:none}table.facts tr{border:1px solid var(--line);border-radius:10px;margin:0 0 12px;padding:6px 0}table.facts td{border:0;padding:4px 12px}table.facts td[data-label]::before{content:attr(data-label);display:block;font-size:.72rem;text-transform:uppercase;letter-spacing:.05em;color:var(--gold);font-weight:800}}
-h1.pg{font-size:2.2rem;color:var(--gold)}h1.pg span{color:var(--g)}h1.pg{font-size:2.2rem;color:var(--gold)}h1.pg span{color:var(--g)}</style></head><body><style>.sw{width:100%;border-collapse:collapse;margin:8px 0}.sw td,.sw th{border-bottom:1px solid var(--line);padding:6px 8px;text-align:left;font-size:.92rem}.cols{display:grid;grid-template-columns:1fr 1fr;gap:20px}@media(max-width:700px){.cols{grid-template-columns:1fr}}.verdict{font-size:1.15rem;color:var(--gold)}code{word-break:break-all}</style><nav><div class="wrap"><b><a href="index.html" style="color:var(--gold)">🐕 DANXX DOGS</a></b><a href="index.html#db">Scam DB</a><a href="index.html#sniff">Sniff</a><a href="index.html#nodm">No DMs</a><a href="pitch-patrol.html">Pitch Patrol</a><a href="scorecard.html">Scorecard</a><a href="shillwave.html">Shill Wave</a><a href="ledger.html">Ledger</a><a href="guides/index.html">Guides</a></div></nav><div class="wrap"><section><p class="pill r">SHILL WAVE METER</p><h1 class="pg">SHILL <span>WAVE</span> CASES</h1>
+h1.pg{font-size:2.2rem;color:var(--gold)}h1.pg span{color:var(--g)}</style><script type="application/ld+json">{"@context": "https://schema.org", "@graph": [{"@type": "WebPage", "@id": "https://danxxdogs.com/shillwave.html#webpage", "url": "https://danxxdogs.com/shillwave.html", "name": "Shill Wave Meter | Danxx Dogs", "description": "Shill Wave Meter: we measure bursts of copy-paste X promo around Robinhood Chain launches and set them next to on-chain facts, with 1h, 24h and 7d re-checks.", "isPartOf": {"@id": "https://danxxdogs.com/#website"}, "publisher": {"@id": "https://danxxdogs.com/#org"}}, {"@type": "BreadcrumbList", "itemListElement": [{"@type": "ListItem", "position": 1, "name": "Home", "item": "https://danxxdogs.com/"}, {"@type": "ListItem", "position": 2, "name": "Shill Wave Meter", "item": "https://danxxdogs.com/shillwave.html"}]}]}</script></head><body><style>.sw{width:100%;border-collapse:collapse;margin:8px 0}.sw td,.sw th{border-bottom:1px solid var(--line);padding:6px 8px;text-align:left;font-size:.92rem}.cols{display:grid;grid-template-columns:1fr 1fr;gap:20px}@media(max-width:700px){.cols{grid-template-columns:1fr}}.verdict{font-size:1.15rem;color:var(--gold)}code{word-break:break-all}</style><nav><div class="wrap"><b><a href="index.html" style="color:var(--gold)">🐕 DANXX DOGS</a></b><a href="index.html#db">Scam DB</a><a href="index.html#sniff">Sniff</a><a href="index.html#nodm">No DMs</a><a href="pitch-patrol.html">Pitch Patrol</a><a href="scorecard.html">Scorecard</a><a href="shillwave.html">Shill Wave</a><a href="ledger.html">Ledger</a><a href="guides/index.html">Guides</a></div></nav><div class="wrap"><section><p class="pill r">SHILL WAVE METER</p><h1 class="pg">SHILL <span>WAVE</span> CASES</h1>
 <p>A shill wave is a burst of near-identical promo posts, often from new or tiny accounts, timed to push a launch. We measure the noise around a token and put the on-chain facts next to it. Numbers only, no accusations. Loud isn't the same as fake, and quiet isn't the same as clean. We never call a token safe. NFA/DYOR.</p>
 <h3>How we measure</h3><ul>
 <li><b>Mention volume:</b> total X posts per hour for the project's handle or contract address over 48 hours (X counts endpoint).</li>

diff --git a/guides/index.html b/guides/index.html
@@ -1,4 +1,4 @@
-<!DOCTYPE html><html lang="en"><head><meta charset="utf-8"><meta name="viewport" content="width=device-width,initial-scale=1"><title>Robinhood Chain Token Safety Guides | Danxx Dogs</title><meta name="description" content="Free Danxx Dogs guides for Robinhood Chain: how to check a token before you buy, launchpad red flags, and how to spot a copycat contract address. NFA/DYOR."><link rel="canonical" href="https://danxxdogs.com/guides/"><link rel="icon" href="../favicon.ico" sizes="any"><link rel="icon" type="image/png" sizes="32x32" href="../assets/favicon-32.png"><link rel="apple-touch-icon" href="../assets/apple-touch-icon.png"><meta property="og:type" content="website"><meta property="og:site_name" content="Danxx Dogs"><meta property="og:url" content="https://danxxdogs.com/guides/"><meta property="og:title" content="Robinhood Chain Token Safety Guides | Danxx Dogs"><meta property="og:description" content="Free Danxx Dogs guides for Robinhood Chain: how to check a token before you buy, launchpad red flags, and how to spot a copycat contract address. NFA/DYOR."><meta property="og:image" content="https://danxxdogs.com/guides/img/check-token-hero.jpg"><meta property="og:image:width" content="1280"><meta property="og:image:height" content="720"><meta property="og:image:alt" content="The Agent, Rug and Dip checking a token"><meta name="twitter:card" content="summary_large_image"><meta name="twitter:site" content="@DanxxDogs"><meta name="twitter:title" content="Robinhood Chain Token Safety Guides | Danxx Dogs"><meta name="twitter:description" content="Free Danxx Dogs guides for Robinhood Chain: how to check a token before you buy, launchpad red flags, and how to spot a copycat contract address. NFA/DYOR."><meta name="twitter:image" content="https://danxxdogs.com/guides/img/check-token-hero.jpg"><meta name="twitter:image:alt" content="The Agent, Rug and Dip checking a token"><style>
+<!DOCTYPE html><html lang="en"><head><meta charset="utf-8"><meta name="viewport" content="width=device-width,initial-scale=1"><title>Robinhood Chain Token Safety Guides | Danxx Dogs</title><meta name="description" content="Free Danxx Dogs guides for Robinhood Chain: how to check a token before you buy, launchpad red flags, and how to spot a copycat contract address. NFA/DYOR."><link rel="canonical" href="https://danxxdogs.com/guides/"><link rel="icon" href="../favicon.ico" sizes="any"><link rel="icon" type="image/png" sizes="32x32" href="../assets/favicon-32.png"><link rel="apple-touch-icon" href="../assets/apple-touch-icon.png"><meta property="og:type" content="website"><meta property="og:site_name" content="Danxx Dogs"><meta property="og:url" content="https://danxxdogs.com/guides/"><meta property="og:title" content="Robinhood Chain Token Safety Guides | Danxx Dogs"><meta property="og:description" content="Free Danxx Dogs guides for Robinhood Chain: how to check a token before you buy, launchpad red flags, and how to spot a copycat contract address. NFA/DYOR."><meta property="og:image" content="https://danxxdogs.com/guides/img/check-token-hero.jpg"><meta property="og:image:width" content="1024"><meta property="og:image:height" content="576"><meta property="og:image:alt" content="The Agent, Rug and Dip checking a token"><meta name="twitter:card" content="summary_large_image"><meta name="twitter:site" content="@DanxxDogs"><meta name="twitter:title" content="Robinhood Chain Token Safety Guides | Danxx Dogs"><meta name="twitter:description" content="Free Danxx Dogs guides for Robinhood Chain: how to check a token before you buy, launchpad red flags, and how to spot a copycat contract address. NFA/DYOR."><meta name="twitter:image" content="https://danxxdogs.com/guides/img/check-token-hero.jpg"><meta name="twitter:image:alt" content="The Agent, Rug and Dip checking a token"><style>
 :root{--bg:#0a0c0b;--card:#131715;--line:#24302a;--g:#39ff7a;--r:#ff3b3b;--gold:#e8b931;--tx:#e8ece9;--mu:#8a968f}
 *{box-sizing:border-box}body{margin:0;background:var(--bg);color:var(--tx);font:16px/1.55 system-ui,-apple-system,Segoe UI,Roboto,sans-serif}
 a{color:var(--g)}.wrap{max-width:1100px;margin:auto;padding:0 20px}section{padding:64px 0;border-top:1px solid var(--line)}

diff --git a/ledger.html b/ledger.html
@@ -32,7 +32,7 @@ footer{padding:36px 0;border-top:1px solid var(--line);text-align:center}.nfa{co
 @media(max-width:820px){.hero{grid-template-columns:1fr}.hero h1{font-size:3rem}.grid,.dbgrid{grid-template-columns:1fr}nav a{font-size:.8rem}section{padding:44px 0}}
 /* mobile-fix */html,body{max-width:100%}img,video,svg{max-width:100%;height:auto}.grid>*,.dbgrid>*,.hero>*{min-width:0}code,pre,.addr,.report,td,li,p,a,h1,h2,h3,div{overflow-wrap:anywhere;word-break:break-word}pre{white-space:pre-wrap}
 @media(max-width:640px){.wrap{padding:0 14px}.hero h1{font-size:2.3rem}nav{flex-wrap:wrap}.sniff input{min-width:0}table.facts,table.facts tbody,table.facts tr,table.facts td{display:block;width:100%}table.facts tr:first-child{display:none}table.facts tr{border:1px solid var(--line);border-radius:10px;margin:0 0 12px;padding:6px 0}table.facts td{border:0;padding:4px 12px}table.facts td[data-label]::before{content:attr(data-label);display:block;font-size:.72rem;text-transform:uppercase;letter-spacing:.05em;color:var(--gold);font-weight:800}}
-h1.pg{font-size:2.2rem;color:var(--gold)}h1.pg span{color:var(--g)}</style></head><body><nav><div class="wrap"><b><a href="index.html" style="color:var(--gold)">🐕 DANXX DOGS</a></b><a href="index.html#db">Scam DB</a><a href="index.html#sniff">Sniff</a><a href="index.html#nodm">No DMs</a><a href="pitch-patrol.html">Pitch Patrol</a><a href="scorecard.html">Scorecard</a><a href="shillwave.html">Shill Wave</a><a href="ledger.html">Ledger</a><a href="guides/index.html">Guides</a></div></nav><div class="wrap"><section><p class="pill y">REPEAT DEPLOYER LEDGER</p><h1 class="pg">RELAUNCHED <span>AFTER LP REMOVAL.</span></h1>
+h1.pg{font-size:2.2rem;color:var(--gold)}h1.pg span{color:var(--g)}</style><script type="application/ld+json">{"@context": "https://schema.org", "@graph": [{"@type": "WebPage", "@id": "https://danxxdogs.com/ledger.html#webpage", "url": "https://danxxdogs.com/ledger.html", "name": "Repeat Deployer Ledger · Danxx Dogs", "description": "Repeat Deployer Ledger: Robinhood Chain wallets that removed liquidity and then launched again, with contracts, dates and evidence from public data. NFA/DYOR.", "isPartOf": {"@id": "https://danxxdogs.com/#website"}, "publisher": {"@id": "https://danxxdogs.com/#org"}}, {"@type": "BreadcrumbList", "itemListElement": [{"@type": "ListItem", "position": 1, "name": "Home", "item": "https://danxxdogs.com/"}, {"@type": "ListItem", "position": 2, "name": "Repeat Deployer Ledger", "item": "https://danxxdogs.com/ledger.html"}]}]}</script></head><body><nav><div class="wrap"><b><a href="index.html" style="color:var(--gold)">🐕 DANXX DOGS</a></b><a href="index.html#db">Scam DB</a><a href="index.html#sniff">Sniff</a><a href="index.html#nodm">No DMs</a><a href="pitch-patrol.html">Pitch Patrol</a><a href="scorecard.html">Scorecard</a><a href="shillwave.html">Shill Wave</a><a href="ledger.html">Ledger</a><a href="guides/index.html">Guides</a></div></nav><div class="wrap"><section><p class="pill y">REPEAT DEPLOYER LEDGER</p><h1 class="pg">RELAUNCHED <span>AFTER LP REMOVAL.</span></h1>
 <p>Wallets on Robinhood Chain that created a token, removed that token's Uniswap v3 pool liquidity, and then created a new token. Every line links to the transaction on the public explorer so you can check it yourself.</p>
 <div class="warn"><b>Facts only.</b> This page lists on-chain events: a token creation, an LP removal, a later token creation by the same wallet. It does not say why, and it is not an accusation. Developers remove liquidity and redeploy for many reasons, including test launches and fixing a mistake. Nothing here says a token is safe or unsafe. NFA/DYOR.</div>
 <p class="muted">10 wallets · window: last 7 days of Uniswap v3 LP removals · included only if every step was checked at the transaction level and the earlier token's DexScreener liquidity is now under $500. Test-named tokens (wrapped test assets, USDC/USDT copies) are left out. Updated 2026-10-25 4:56 PM CT.</p>
